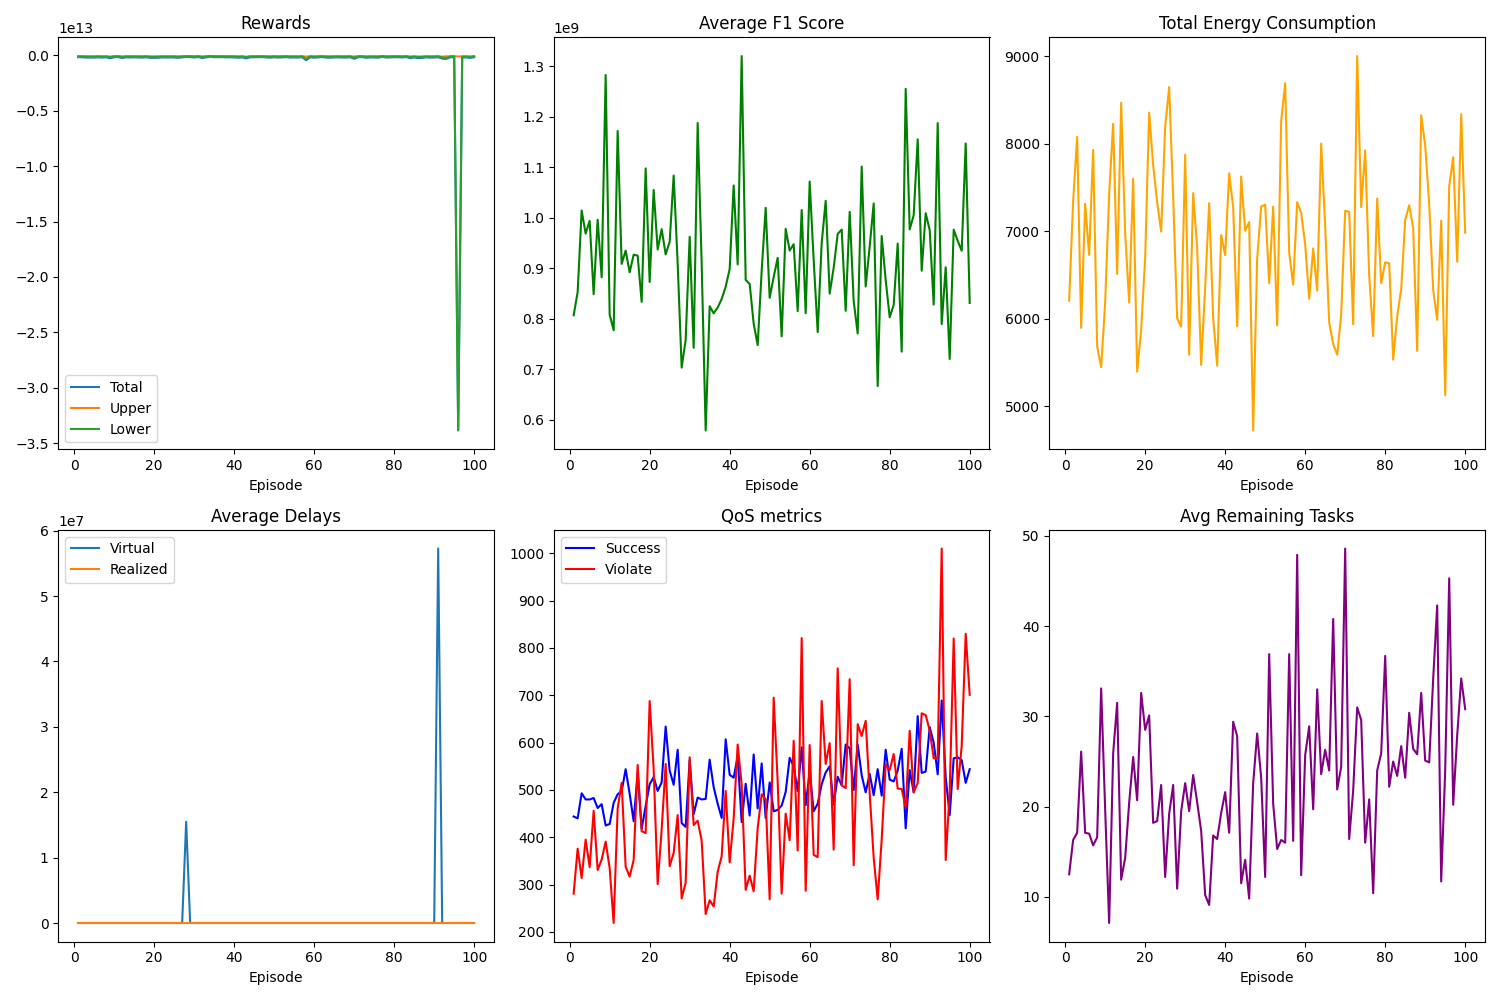
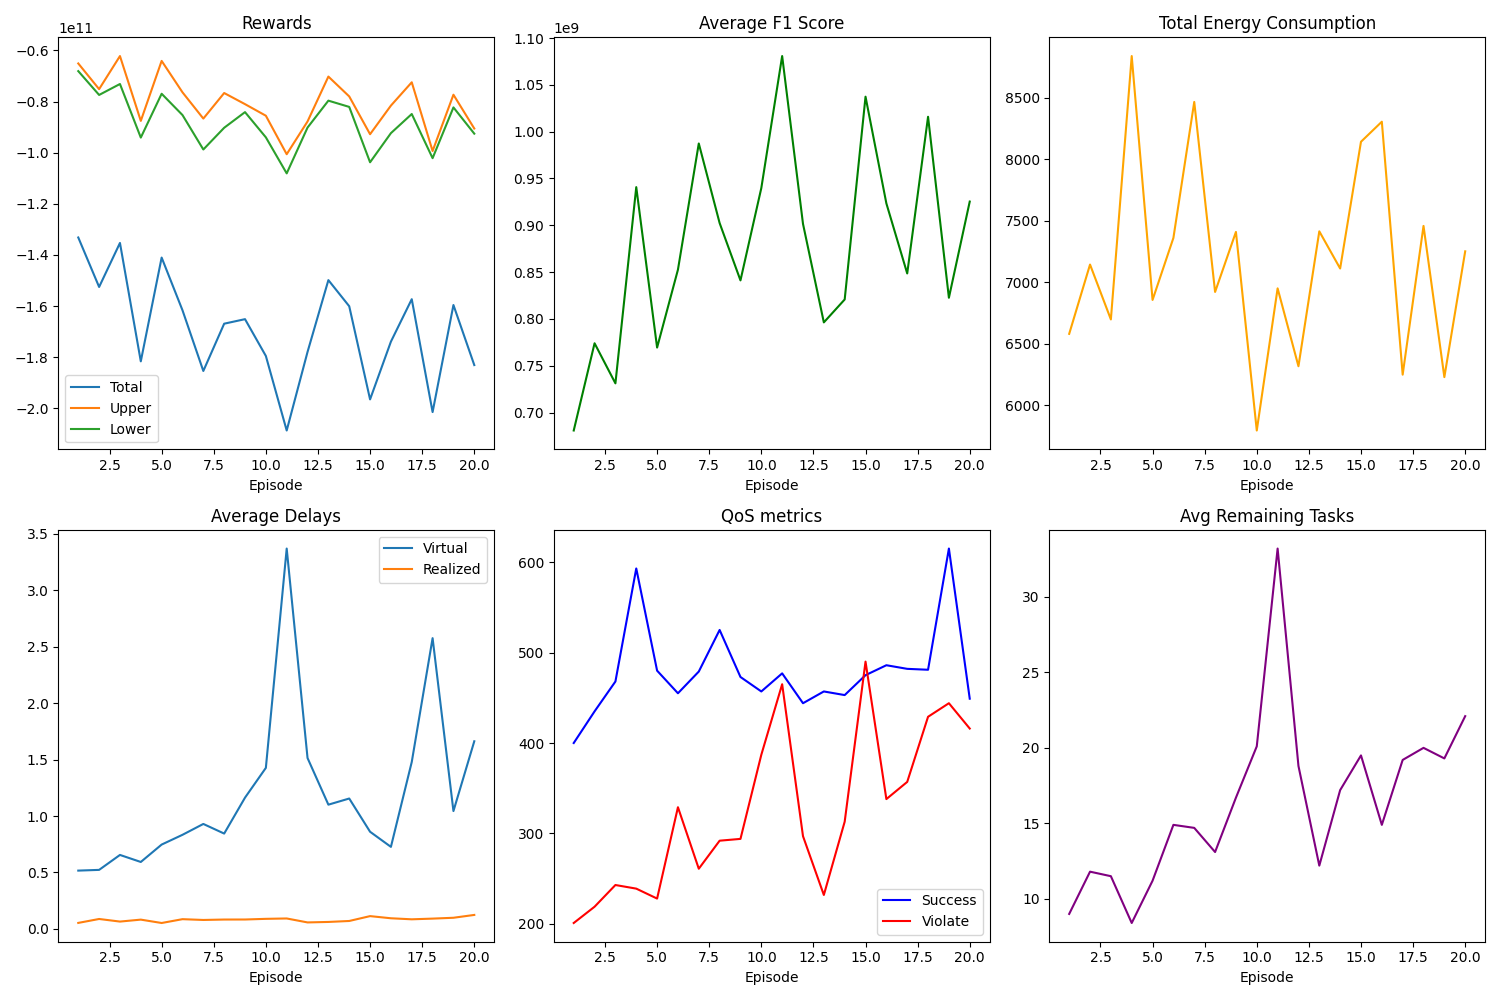
basement code

diff --git a/src/visualize/aggregator.py b/src/visualize/aggregator.py
@@ -65,7 +65,7 @@ class MetricsAggregator:
             self.episode_violate_qos.append(sum(np.sum(v) for v in violate_qos.values()))
 
     def store_history(self):
-        """Saves episode averages to history."""
+        """Saves episode averages to history and RESETS intra-episode data."""
         self.history["upper_reward"].append(np.sum(self.episode_upper_rewards))
         self.history["lower_reward"].append(np.sum(self.episode_lower_rewards))
         self.history["total_reward"].append(np.sum(self.episode_upper_rewards) + np.sum(self.episode_lower_rewards))
@@ -77,6 +77,9 @@ class MetricsAggregator:
         self.history["total_success_qos"].append(np.sum(self.episode_success_qos) if self.episode_success_qos else 0)
         self.history["total_violate_qos"].append(np.sum(self.episode_violate_qos) if self.episode_violate_qos else 0)
         self.history["avg_remaining_tasks"].append(np.mean(self.episode_remaining_tasks) if self.episode_remaining_tasks else 0)
+        
+        # Auto-reset for next episode
+        self.reset_episode()
 
     def report_episode(self, ep):
         """Prints a summary of the current episode."""
@@ -93,58 +96,78 @@ class MetricsAggregator:
         print(f"Avg Remaining Tasks: {self.history['avg_remaining_tasks'][-1]:.2f}")
         print("---------------------------\n")
 
+    def _moving_average(self, data, window=50):
+        if len(data) < window:
+            return data
+        return np.convolve(data, np.ones(window)/window, mode='valid')
+
     def plot_history(self, save_dir="src/visualize/plots"):
-        """Generates and saves performance charts."""
+        """Generates and saves performance charts showing evolution."""
         if not os.path.exists(save_dir):
             os.makedirs(save_dir)
             
         episodes = range(1, len(self.history["total_reward"]) + 1)
+        window = 10 # Window for smoothing
         
-        plt.figure(figsize=(15, 10))
+        plt.figure(figsize=(18, 12))
+        plt.suptitle("Model Evolution Over Episodes", fontsize=16)
         
-        # Plot 1: Rewards
+        # Plot 1: Rewards (with moving average)
         plt.subplot(2, 3, 1)
-        plt.plot(episodes, self.history["total_reward"], label="Total")
-        plt.plot(episodes, self.history["upper_reward"], label="Upper")
-        plt.plot(episodes, self.history["lower_reward"], label="Lower")
-        plt.title("Rewards")
+        plt.plot(episodes, self.history["total_reward"], alpha=0.3, color='blue', label="Raw Total")
+        if len(episodes) >= window:
+            ma = self._moving_average(self.history["total_reward"], window)
+            plt.plot(range(window, len(self.history["total_reward"]) + 1), ma, color='blue', label=f"MA-{window}")
+        plt.title("Reward Evolution")
         plt.xlabel("Episode")
         plt.legend()
         
         # Plot 2: F1 Score
         plt.subplot(2, 3, 2)
-        plt.plot(episodes, self.history["avg_f1"], color='green')
-        plt.title("Average F1 Score")
+        plt.plot(episodes, self.history["avg_f1"], alpha=0.3, color='green')
+        if len(episodes) >= window:
+            ma = self._moving_average(self.history["avg_f1"], window)
+            plt.plot(range(window, len(self.history["avg_f1"]) + 1), ma, color='green', label=f"MA-{window}")
+        plt.title("F1 Score Improvement")
         plt.xlabel("Episode")
         
         # Plot 3: Energy
         plt.subplot(2, 3, 3)
-        plt.plot(episodes, self.history["total_energy"], color='orange')
-        plt.title("Total Energy Consumption")
+        plt.plot(episodes, self.history["total_energy"], alpha=0.3, color='orange')
+        if len(episodes) >= window:
+            ma = self._moving_average(self.history["total_energy"], window)
+            plt.plot(range(window, len(self.history["total_energy"]) + 1), ma, color='orange', label=f"MA-{window}")
+        plt.title("Energy Consumption Trend")
         plt.xlabel("Episode")
         
         # Plot 4: Delays
         plt.subplot(2, 3, 4)
-        plt.plot(episodes, self.history["avg_virtual_delay"], label="Virtual")
-        plt.plot(episodes, self.history["avg_realized_delay"], label="Realized")
-        plt.title("Average Delays")
+        plt.plot(episodes, self.history["avg_realized_delay"], alpha=0.3, color='red', label="Realized")
+        if len(episodes) >= window:
+            ma = self._moving_average(self.history["avg_realized_delay"], window)
+            plt.plot(range(window, len(self.history["avg_realized_delay"]) + 1), ma, color='red', label=f"MA-{window}")
+        plt.title("Delay Evolution")
         plt.xlabel("Episode")
         plt.legend()
         
-        # Plot 5: QoS
+        # Plot 5: QoS Violations
         plt.subplot(2, 3, 5)
-        plt.plot(episodes, self.history["total_success_qos"], label="Success", color='blue')
-        plt.plot(episodes, self.history["total_violate_qos"], label="Violate", color='red')
-        plt.title("QoS metrics")
+        plt.plot(episodes, self.history["total_violate_qos"], alpha=0.3, color='purple', label="Violations")
+        if len(episodes) >= window:
+            ma = self._moving_average(self.history["total_violate_qos"], window)
+            plt.plot(range(window, len(self.history["total_violate_qos"]) + 1), ma, color='purple', linewidth=2)
+        plt.title("QoS Stability")
         plt.xlabel("Episode")
-        plt.legend()
 
         # Plot 6: Remaining Tasks
         plt.subplot(2, 3, 6)
-        plt.plot(episodes, self.history["avg_remaining_tasks"], color='purple')
-        plt.title("Avg Remaining Tasks")
+        plt.plot(episodes, self.history["avg_remaining_tasks"], alpha=0.3, color='brown')
+        if len(episodes) >= window:
+            ma = self._moving_average(self.history["avg_remaining_tasks"], window)
+            plt.plot(range(window, len(self.history["avg_remaining_tasks"]) + 1), ma, color='brown')
+        plt.title("Task Clearing Efficiency")
         plt.xlabel("Episode")
         
-        plt.tight_layout()
+        plt.tight_layout(rect=[0, 0.03, 1, 0.95])
         plt.savefig(os.path.join(save_dir, "training_metrics.png"))
         plt.close()

diff --git a/src/trainers/train.py b/src/trainers/train.py
@@ -86,7 +86,6 @@ class Trainer:
         pbar = tqdm(range(num_eps), desc="Training")
         for ep in pbar:
             self.update_exploration_rates()
-            self.aggregator.reset_episode()
 
             while True:
                 if lower_state.get("new_frame"):
